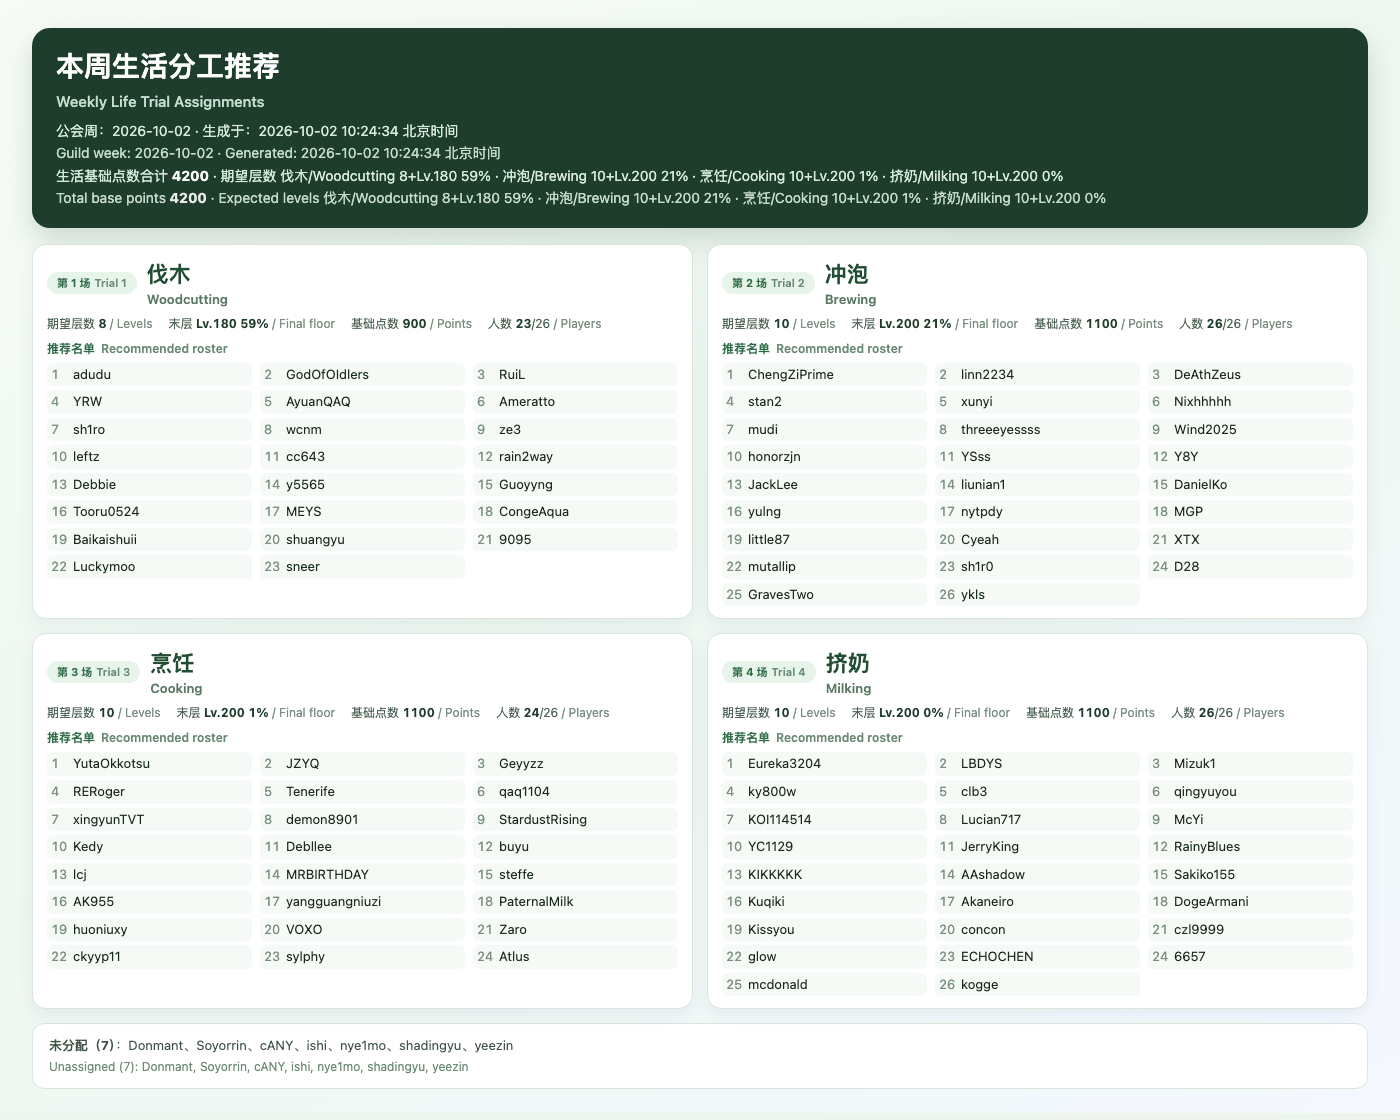
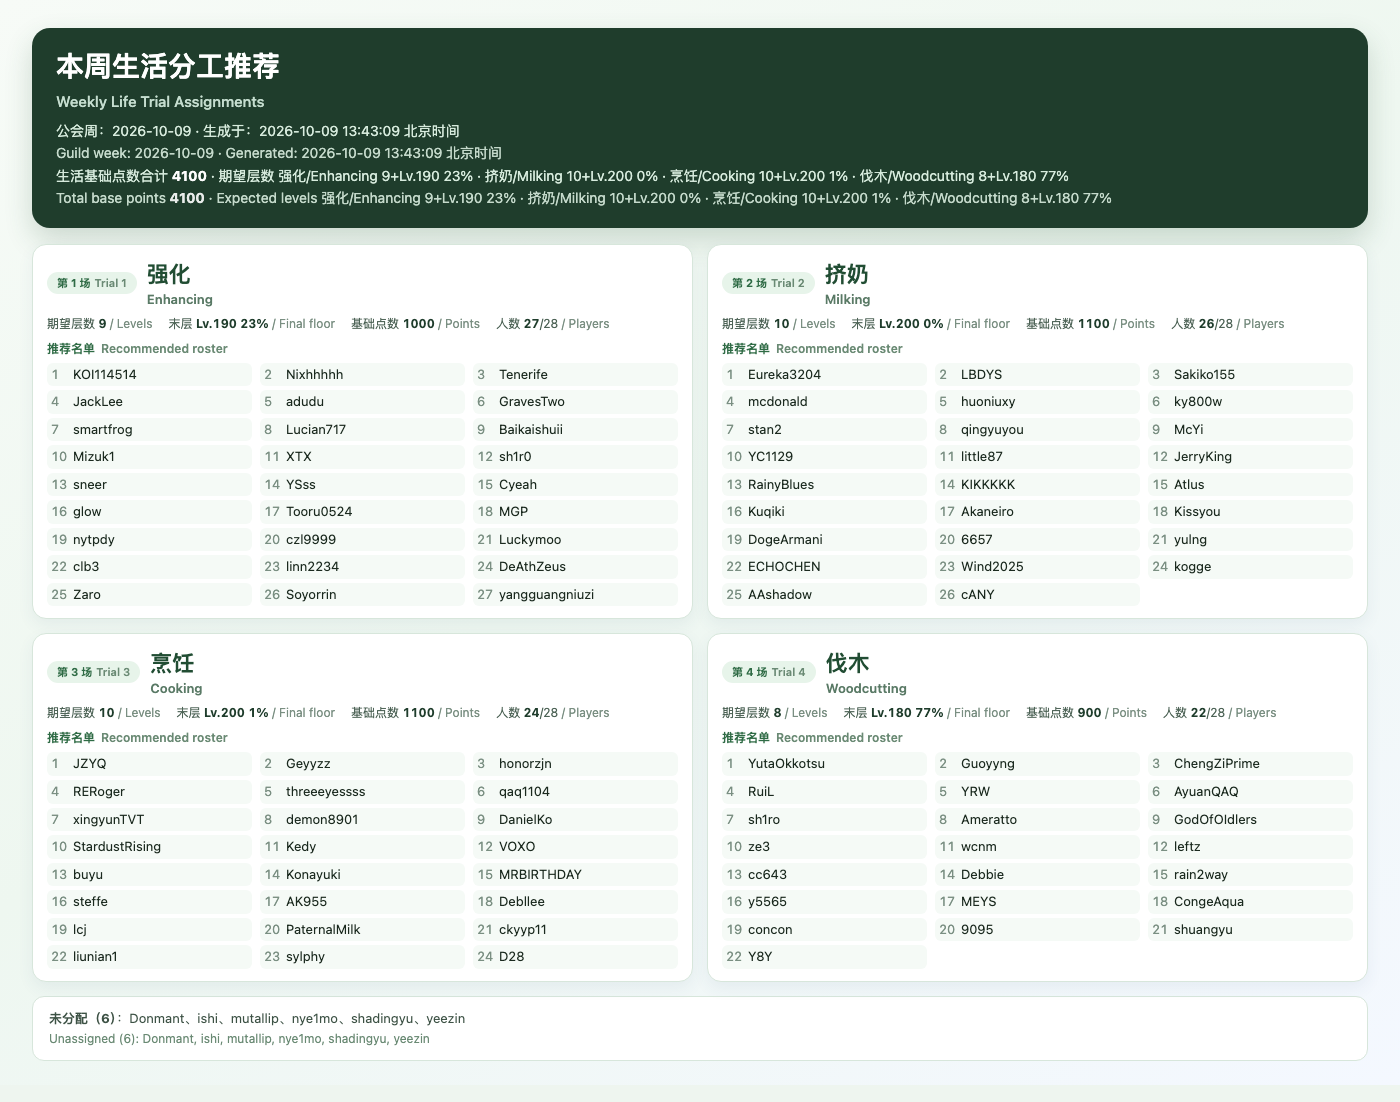
chore: refresh life assignment report (2026-10-09T00:00:00.000Z, 4100 pts)

diff --git a/reports/combat-assignment/index.html b/reports/combat-assignment/index.html
@@ -132,7 +132,7 @@
     <div class="header-text">
       <h1><span class="i18n" data-zh="本周分工" data-en="Weekly Assignments">本周分工</span></h1>
       <div class="meta">
-        <span class="i18n" data-zh="战斗方案：" data-en="Combat plan: ">战斗方案：</span>2026-10-09 11:27:28 北京时间
+        <span class="i18n" data-zh="战斗方案：" data-en="Combat plan: ">战斗方案：</span>2026-10-09 13:43:09 北京时间
         <span class="i18n" data-zh=" · 点选下方条目浏览生活/战斗图片" data-en=" · Pick a tab to browse life/combat images"> · 点选下方条目浏览生活/战斗图片</span>
       </div>
     </div>
@@ -141,27 +141,13 @@
       <button type="button" class="lang-btn" data-lang="en">English</button>
     </div>
   </header>
-  <pre class="summary" id="summaryBlock">TMD 可用人员重排组合搜索（不按报名，开发实验不可转正）
-可用 108 人；不可用 6 人；最优分区：phys-chameleon-magic-badger-heal50
-规则：物理主体去变色龙、火水主体去双獾；自然奶比分区搜索，两边保留覆盖，超额物理补双獾；两边各留至少2个必要覆盖（烟爆/法力喷泉/冰霜爆裂/粉尘/疫病/破甲/碎裂/致残/血刃）；自然奶按武器强化/魔法改输出 x（chameleon=0，badger=0），输出技能元素增幅/粉尘/菌幕/缠绕，剩余自然仍群疗；非光环默认复活、前x输出改疯狂（chameleon=32，badger=34）；攻击≥110；双 Boss 人员互斥；无复制人。
-【试炼变色龙】56人；3次 13–16 层；DPS≈7065；末层平均49.9%；死亡 69–101；前32输出疯狂
-技能包：st-ranged-pestilent-flameblast
-职业：弓2 弩16 火2 水2 自10 盾1 枪17 剑2 锤4
-职责：坦克1 奶10 减10 输出35
-名单：Tenerife(弓)、Cristianon(弓)、cANY(弩)、cc643(弩)、DanielKo(弩)、Debllee(弩)、YSss(弩)、fenxiao(弩)、GravesTwo(弩)、ykls(弩)、ky800w(弩)、leftz(弩)、Lucian717(弩)、MEYS(弩)、AyuanQAQ(弩)、sylphy(弩)、XTX(弩)、YC1129(弩)、Akaset(火)、ChengZiPrime(火)、buyu(水)、dark6666(水)、MRBIRTHDAY(自)、xunyi(自)、rain2way(自)、qaq1104(自)、shuangyu(自)、Oosakiii(自)、threeeyessss(自)、nytpdy(自)、y5565(自)、wcnm(自)、sh1r0(盾)、adudu(枪)、Baikaishuii(枪)、Cyeah(枪)、czl9999(枪)、demon8901(枪)、6657(枪)、haihaihai2(枪)、AAshadow(枪)、Kuqiki(枪)、little87(枪)、Luckymoo(枪)、McYi(枪)、mudi(枪)、xingyunTVT(枪)、nye1mo(枪)、yangguangniuzi(枪)、shadingyu(枪)、steffe(剑)、Sakiko155(剑)、Atlus(锤)、D28(锤)、ECHOCHEN(锤)、XHSe(锤)
-【试炼獾】52人（每层2只）；3次 13–14 层；DPS≈7156；末层平均35.4%；死亡 1–10；前34输出疯狂
-技能包：aoe-precision-rain-smoke2
-职业：弓2 弩4 火11 水10 自14 盾1 枪5 剑2 锤3
-职责：坦克1 奶14 减19 输出18
-名单：yeezin(弓)、JackLee(弓)、9095(弩)、RERoger(弩)、KIKKKKK(弩)、DogeArmani(弩)、Kedy(火)、JerryKing(火)、LBDYS(火)、mutallip(火)、Wind2025(火)、Mizuk1(火)、RuiL(火)、DeAthZeus(火)、stan2(火)、StardustRising(火)、Donmant(火)、honorzjn(水)、ikunkunkun(水)、ishi(水)、lcj(水)、liunian1(水)、PaternalMilk(水)、RainyBlues(水)、Soyorrin(水)、YRW(水)、ZYS1(水)、121574(自)、Acceleratorlin(自)、AK955(自)、ckyyp11(自)、CongeAqua(自)、Debbie(自)、Geyyzz(自)、glow(自)、Kissyou(自)、kogge(自)、MGP(自)、Mirrorball(自)、yulng(自)、Zaro(自)、ze3(盾)、GodOfOIdlers(枪)、JZYQ(枪)、VOXO(枪)、Nixhhhhh(枪)、qingyuyou(枪)、Chen1ey(剑)、yida787(剑)、Akaneiro(锤)、Ameratto(锤)、sneer(锤)
-全库不可用：Y8Y/枪(攻击等级不足（105&lt;110）)、Eureka3204/自(攻击等级不足（95&lt;110）)、Guoyyng/水(攻击等级不足（79&lt;110）)、Tooru0524/锤(快照缺少可用的对应职业装备)、Level3000/弩(攻击等级不足（84&lt;110）)、sh1ro/水(手动排除（不参加）)
-选择口径：三 seed 平均通关层数优先，同层比较末层进度；死亡和团灭保留统计，不扣分、不淘汰。</pre>
+  
   <nav class="tabs" aria-label="Weekly assignment images">
       <button type="button" class="tab active" data-index="0" data-src-zh="../life-assignment/latest.png" data-src-en="../life-assignment/latest.png" data-label-zh="生活分工" data-label-en="Life Trials"><span class="i18n" data-zh="生活分工" data-en="Life Trials">生活分工</span></button>
-      <button type="button" class="tab" data-index="1" data-src-zh="1-chameleon-summary.png" data-src-en="1-chameleon-summary.en.png" data-label-zh="变色龙 · 阵容与技能" data-label-en="Trial Chameleon · Roster &amp; Skills"><span class="i18n" data-zh="变色龙 · 阵容与技能" data-en="Trial Chameleon · Roster &amp; Skills">变色龙 · 阵容与技能</span></button>
-      <button type="button" class="tab" data-index="2" data-src-zh="1-chameleon-members.png" data-src-en="1-chameleon-members.en.png" data-label-zh="变色龙 · 成员明细" data-label-en="Trial Chameleon · 56 Member Breakdown"><span class="i18n" data-zh="变色龙 · 成员明细" data-en="Trial Chameleon · 56 Member Breakdown">变色龙 · 成员明细</span></button>
-      <button type="button" class="tab" data-index="3" data-src-zh="2-badger-summary.png" data-src-en="2-badger-summary.en.png" data-label-zh="獾 · 阵容与技能" data-label-en="Trial Badger · Roster &amp; Skills"><span class="i18n" data-zh="獾 · 阵容与技能" data-en="Trial Badger · Roster &amp; Skills">獾 · 阵容与技能</span></button>
-      <button type="button" class="tab" data-index="4" data-src-zh="2-badger-members.png" data-src-en="2-badger-members.en.png" data-label-zh="獾 · 成员明细" data-label-en="Trial Badger · 52 Member Breakdown"><span class="i18n" data-zh="獾 · 成员明细" data-en="Trial Badger · 52 Member Breakdown">獾 · 成员明细</span></button>
+      <button type="button" class="tab" data-index="1" data-src-zh="1-chameleon-summary.png" data-src-en="1-chameleon-summary.en.png" data-label-zh="变色龙 · 阵容与技能" data-label-en="Chameleon · Roster &amp; Skills"><span class="i18n" data-zh="变色龙 · 阵容与技能" data-en="Chameleon · Roster &amp; Skills">变色龙 · 阵容与技能</span></button>
+      <button type="button" class="tab" data-index="2" data-src-zh="1-chameleon-members.png" data-src-en="1-chameleon-members.en.png" data-label-zh="变色龙 · 成员明细" data-label-en="Chameleon · Members"><span class="i18n" data-zh="变色龙 · 成员明细" data-en="Chameleon · Members">变色龙 · 成员明细</span></button>
+      <button type="button" class="tab" data-index="3" data-src-zh="2-badger-summary.png" data-src-en="2-badger-summary.en.png" data-label-zh="獾 · 阵容与技能" data-label-en="Badger · Roster &amp; Skills"><span class="i18n" data-zh="獾 · 阵容与技能" data-en="Badger · Roster &amp; Skills">獾 · 阵容与技能</span></button>
+      <button type="button" class="tab" data-index="4" data-src-zh="2-badger-members.png" data-src-en="2-badger-members.en.png" data-label-zh="獾 · 成员明细" data-label-en="Badger · Members"><span class="i18n" data-zh="獾 · 成员明细" data-en="Badger · Members">獾 · 成员明细</span></button>
   </nav>
   <main>
     <p class="caption" id="caption"></p>

diff --git a/reports/life-assignment/README.md b/reports/life-assignment/README.md
@@ -1,8 +1,8 @@
 # 本周生活分工
 
-- 公会周：`2026-10-02T00:00:00.000Z`
-- 生成时间：`2026-10-02T02:24:34.239Z`
-- 基础点数合计：`4200`
+- 公会周：`2026-10-09T00:00:00.000Z`
+- 生成时间：`2026-10-09T05:43:09.341Z`
+- 基础点数合计：`4100`
 
 图片：https://raw.githubusercontent.com/xiahuaaaa/mwi-guild-trial-helper/main/reports/life-assignment/latest.png
 JSON：https://raw.githubusercontent.com/xiahuaaaa/mwi-guild-trial-helper/main/reports/life-assignment/latest.json
